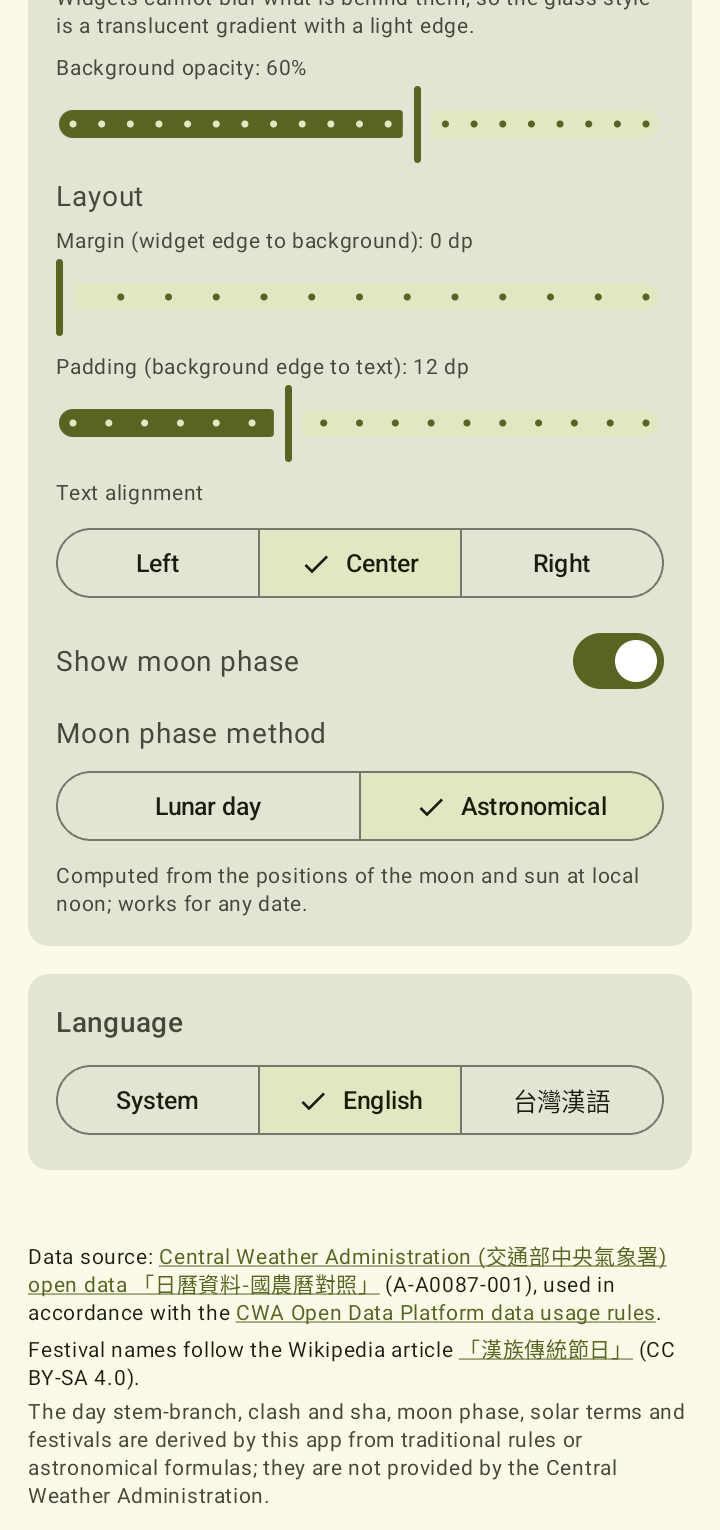
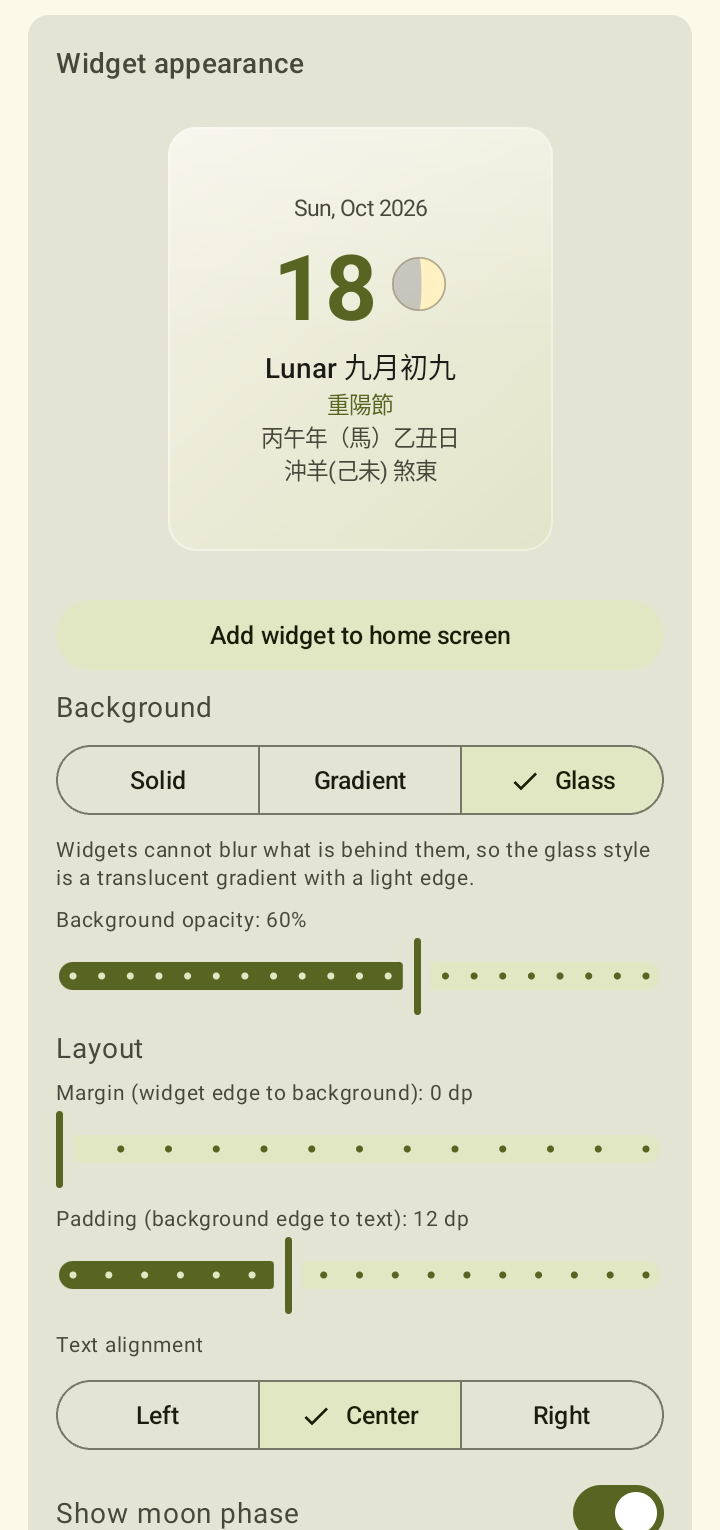
Update screenshots for the widget preview
Retake the almanac and settings screenshots in both locales so they
show the widget preview and add-widget button. The rest of the
settings and the attribution move to a new fourth screenshot.

diff --git a/README.md b/README.md
@@ -20,9 +20,9 @@ The app in 台灣漢語 and English: the day's almanac, and the widget and langu
 
 <p align="center">
   <img src="fastlane/metadata/android/zh-TW/images/phoneScreenshots/1.png" alt="Almanac screen in 台灣漢語" width="200">
-  <img src="fastlane/metadata/android/zh-TW/images/phoneScreenshots/2.png" alt="Settings in 台灣漢語" width="200">
+  <img src="fastlane/metadata/android/zh-TW/images/phoneScreenshots/2.png" alt="Widget preview and settings in 台灣漢語" width="200">
   <img src="fastlane/metadata/android/en-US/images/phoneScreenshots/1.png" alt="Almanac screen in English" width="200">
-  <img src="fastlane/metadata/android/en-US/images/phoneScreenshots/2.png" alt="Settings in English" width="200">
+  <img src="fastlane/metadata/android/en-US/images/phoneScreenshots/2.png" alt="Widget preview and settings in English" width="200">
 </p>
 
 ## Download 下載
